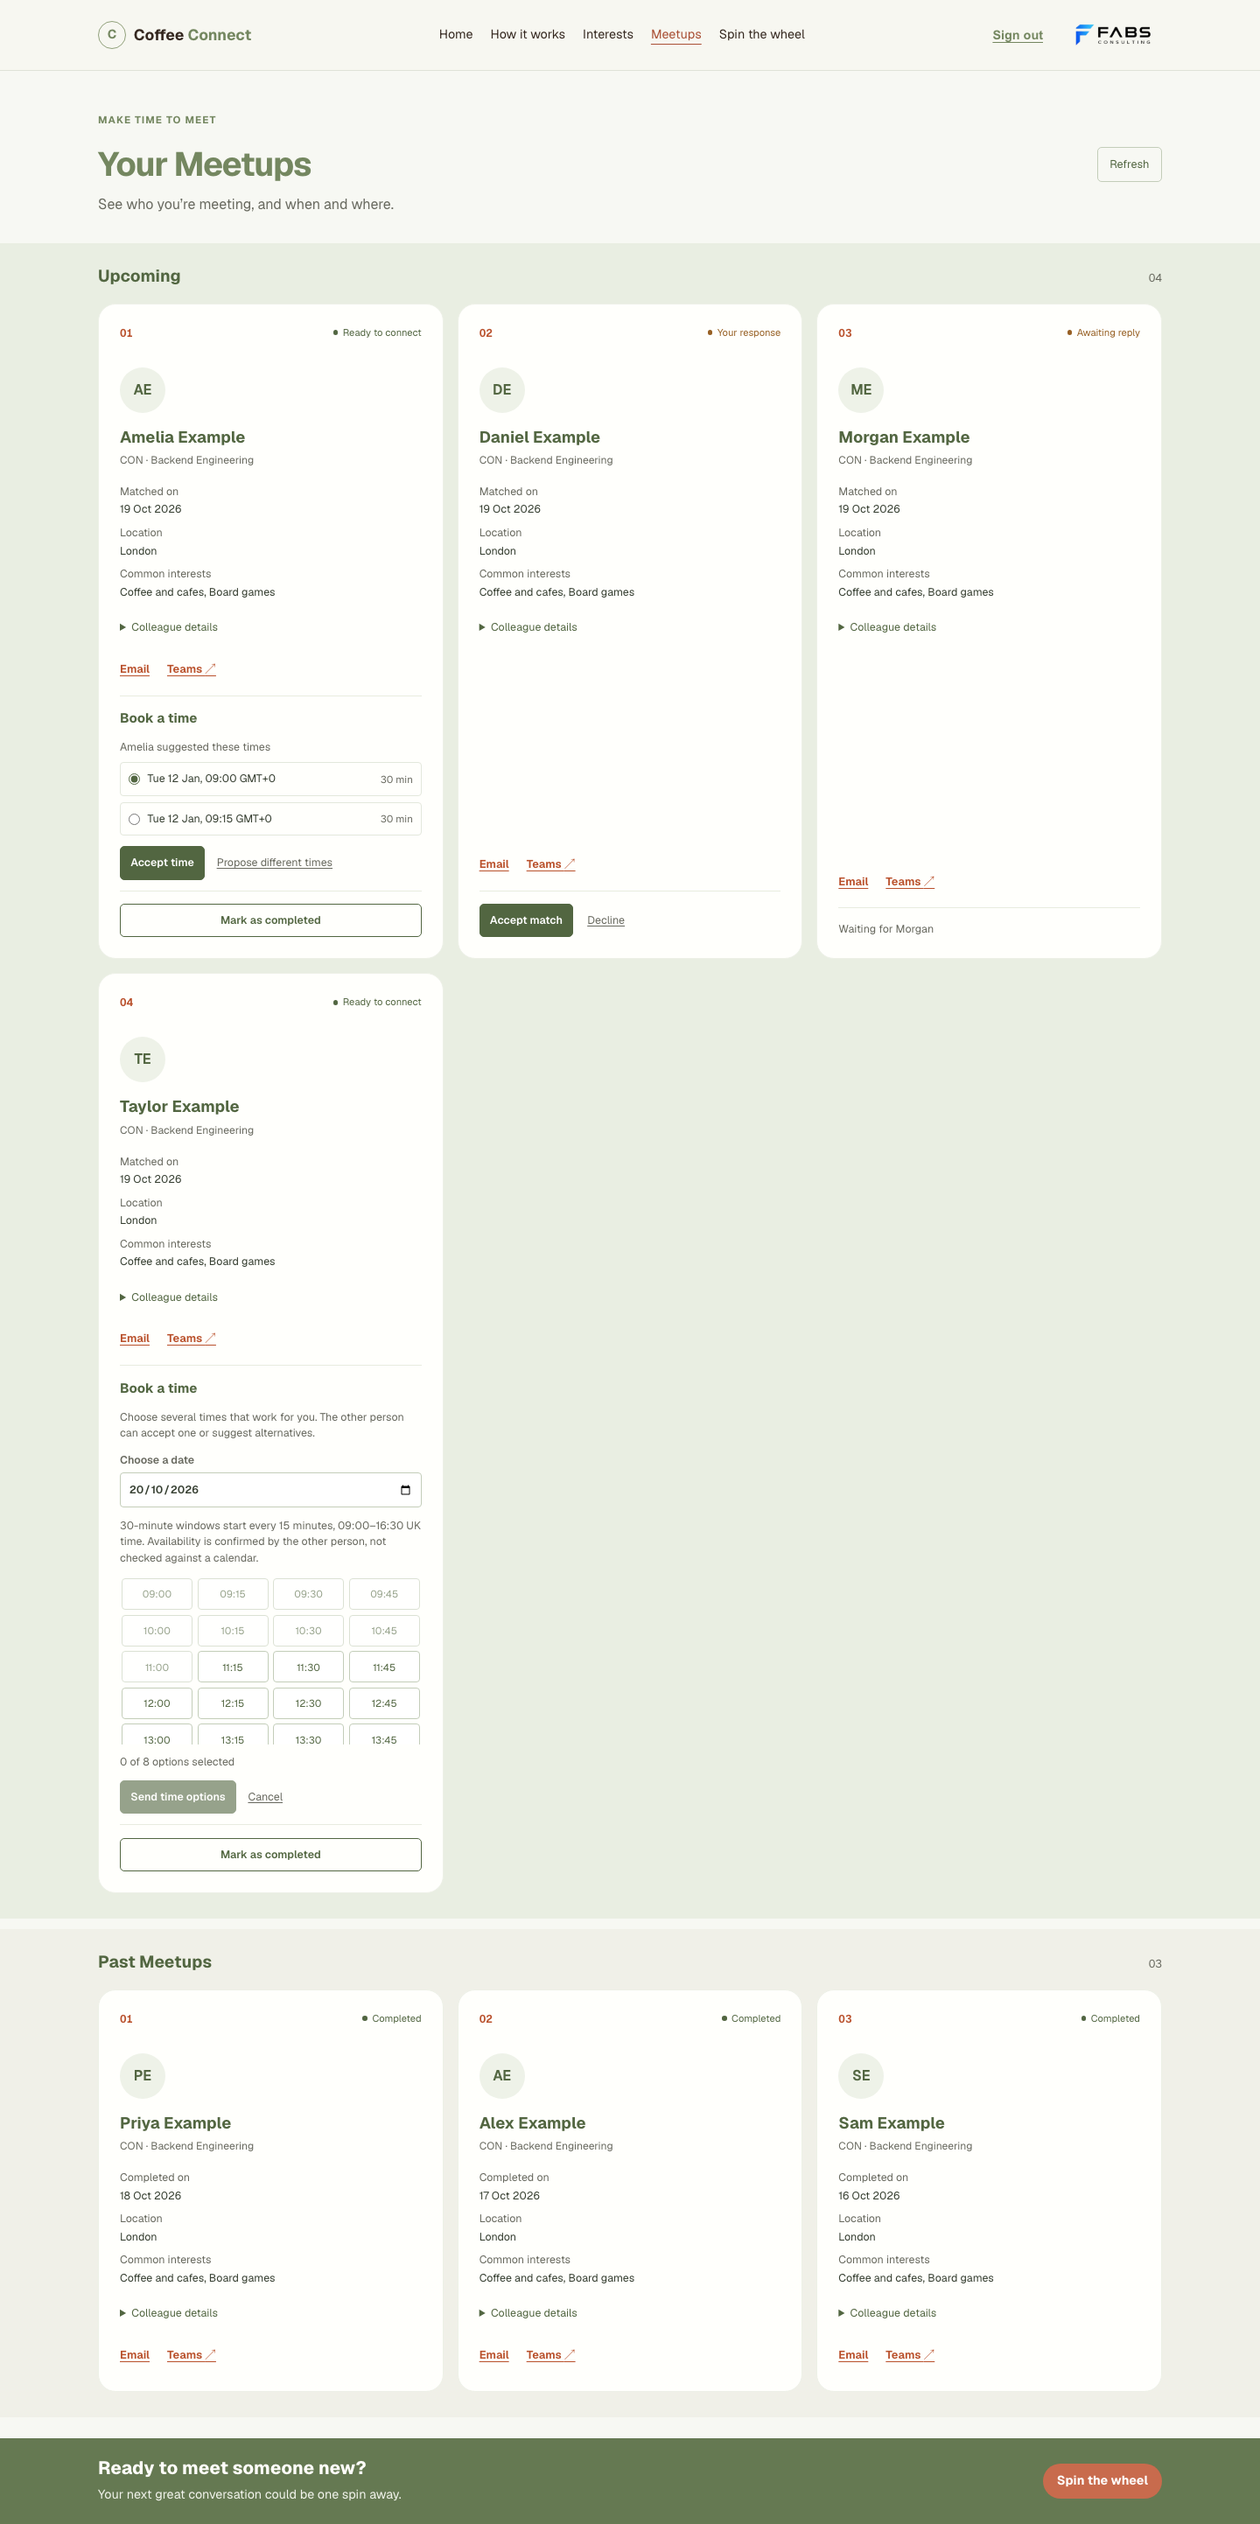
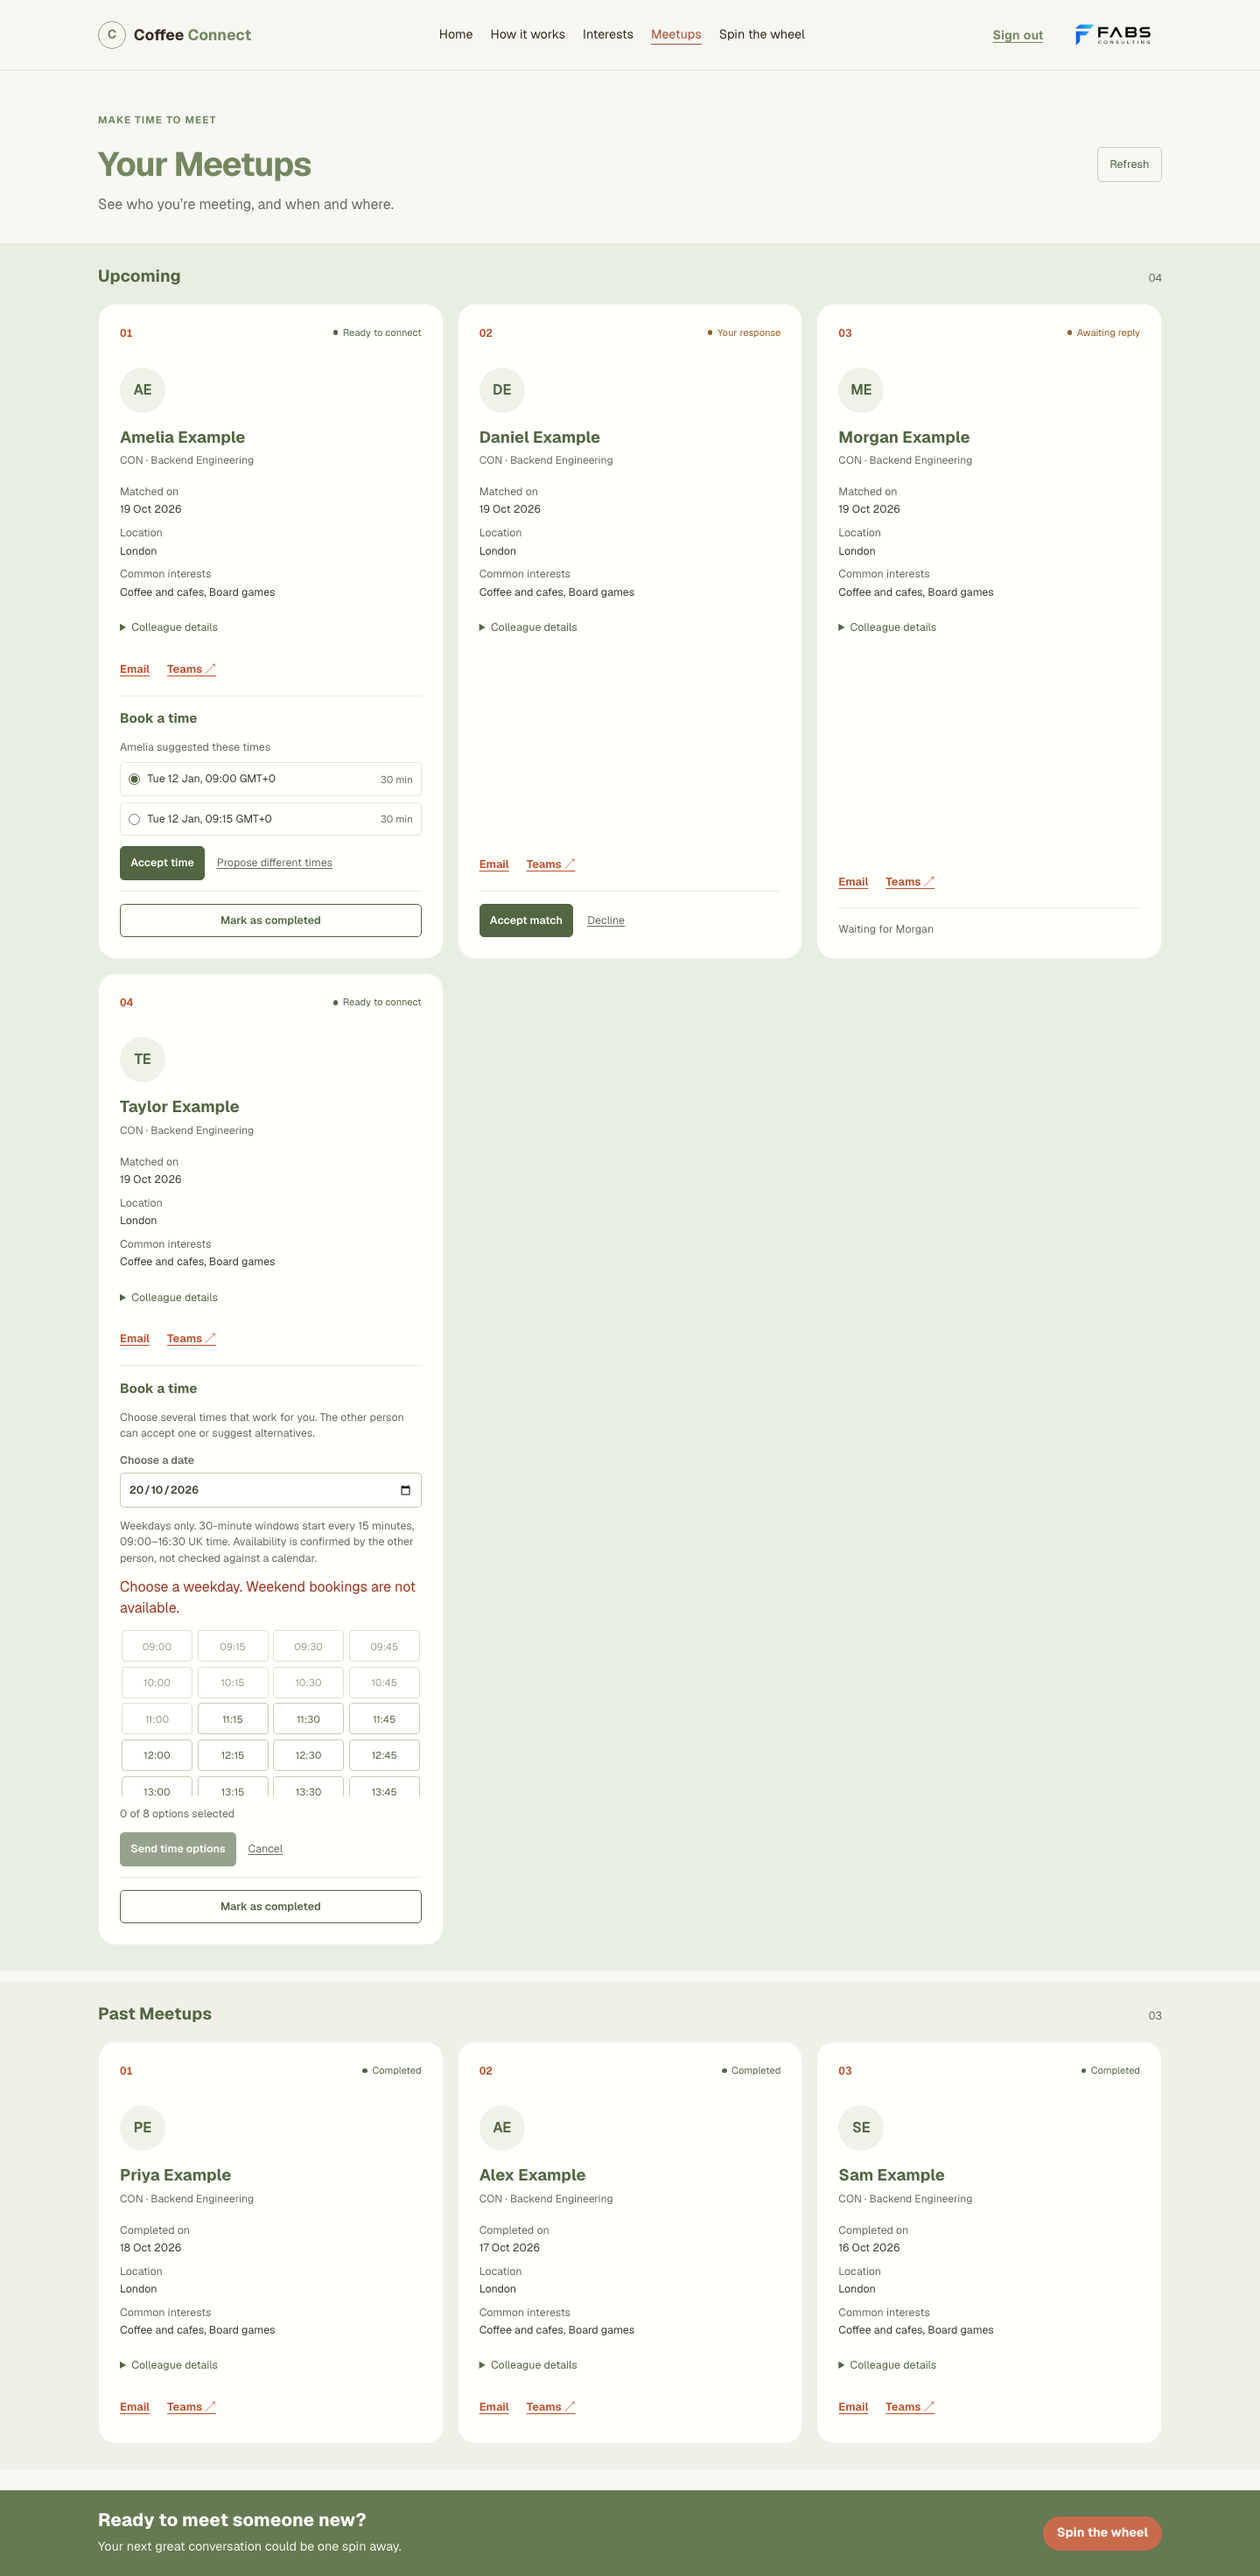
#47 Calendar optionality to choose booking: block weekend dates

diff --git a/src/app/meetups/page.tsx b/src/app/meetups/page.tsx
@@ -309,6 +309,7 @@ function BookingPanel({ booking, personId, colleagueName, disabled, onPropose, o
   const [selectedSlotId, setSelectedSlotId] = useState<number | null>(null);
   const [saving, setSaving] = useState(false);
   const [error, setError] = useState("");
+  const [dateError, setDateError] = useState("");
   const active = booking?.proposals.find((proposal) => proposal.status === "OPEN") ?? null;
   const awaitingColleague = Boolean(active && active.proposed_by === personId);
   const scheduledAt = booking?.status === "CONFIRMED" ? booking.scheduled_at : null;
@@ -386,9 +387,18 @@ function BookingPanel({ booking, personId, colleagueName, disabled, onPropose, o
         <div className={styles.bookingComposer}>
           <label className={styles.bookingDate}>
             <span>Choose a date</span>
-            <input type="date" min={getLondonDateKey(new Date())} value={selectedDate} onChange={(event) => setSelectedDate(event.target.value)} disabled={disabled || saving} />
+            <input type="date" min={getLondonDateKey(new Date())} value={selectedDate} onChange={(event) => {
+              const nextDate = event.target.value;
+              if (!isLondonWeekday(nextDate)) {
+                setDateError("Choose a weekday. Weekend bookings are not available.");
+                return;
+              }
+              setDateError("");
+              setSelectedDate(nextDate);
+            }} disabled={disabled || saving} aria-describedby="booking-date-guidance" />
           </label>
-          <p className={styles.bookingGuidance}>30-minute windows start every 15 minutes, 09:00–16:30 UK time. Availability is confirmed by the other person, not checked against a calendar.</p>
+          <p className={styles.bookingGuidance} id="booking-date-guidance">Weekdays only. 30-minute windows start every 15 minutes, 09:00–16:30 UK time. Availability is confirmed by the other person, not checked against a calendar.</p>
+          {dateError && <p className={styles.error} role="alert">{dateError}</p>}
           <div className={styles.bookingTimes} role="group" aria-label="Available start times in UK time">
             {BOOKING_TIMES.map((time) => {
               const slot = londonSlotToIso(selectedDate, time);
@@ -411,4 +421,11 @@ function BookingPanel({ booking, personId, colleagueName, disabled, onPropose, o
       {error && !calendarOpen && <p className={styles.error} role="alert">{error}</p>}
     </section>
   );
+}
+
+function isLondonWeekday(date: string): boolean {
+  const [year, month, day] = date.split("-").map(Number);
+  if (!year || !month || !day) return false;
+  const weekday = new Date(Date.UTC(year, month - 1, day)).getUTCDay();
+  return weekday !== 0 && weekday !== 6;
 }
